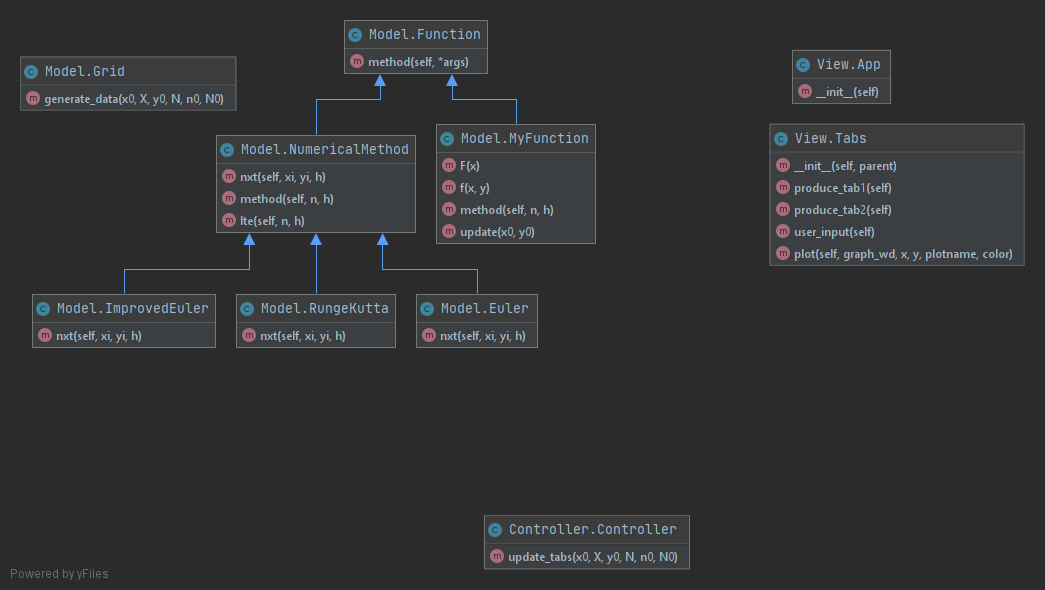
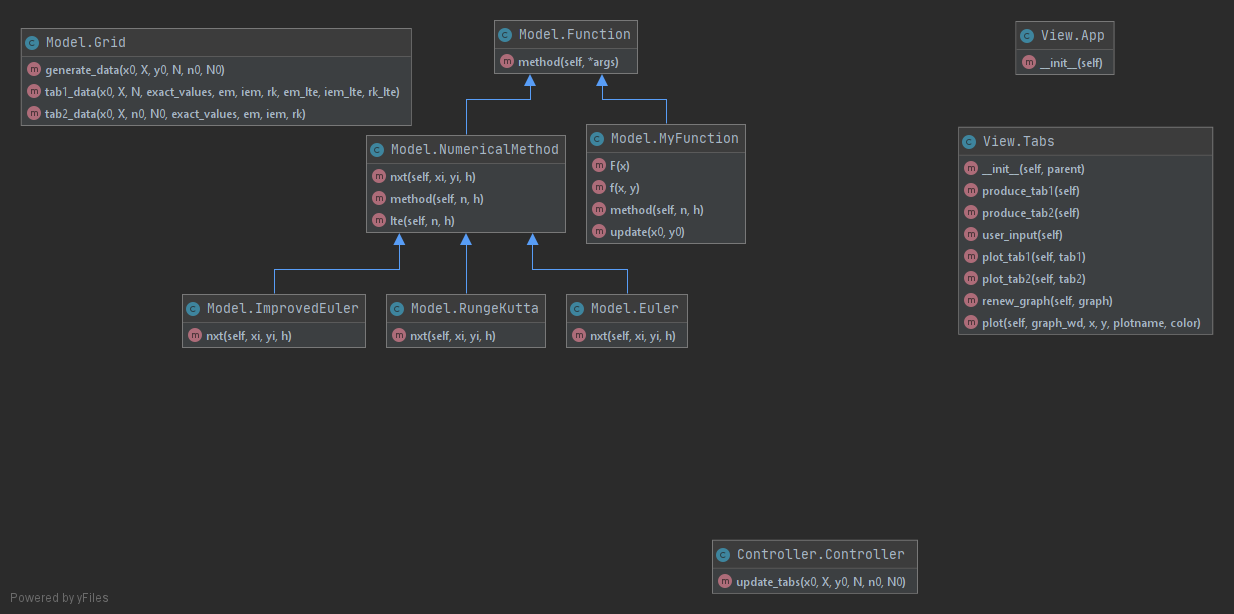
refactored

diff --git a/Model.py b/Model.py
@@ -6,6 +6,7 @@ class Function:
     def method(self, *args):
         pass
 
+
 class MyFunction(Function):
     @staticmethod
     def F(x):
@@ -74,28 +75,27 @@ class RungeKutta(NumericalMethod):
 
 
 class Grid:
-    # xs, Ys, EM, IEM, LTE, GTE
     @staticmethod
     def generate_data(x0, X, y0, N, n0, N0):
 
-        # ============ putting definitions ============
+        # ============ putting definitions and updating Model ============
         x0, X, y0 = float(x0), float(X), float(y0)
         MyFunction.update(x0, y0)
 
+        exact_values = MyFunction().method
+        em, iem, rk = Euler().method, ImprovedEuler().method, RungeKutta().method
+        em_lte, iem_lte, rk_lte = Euler().lte, ImprovedEuler().lte, RungeKutta().lte
+
+        # ============ gathering plot data for tabs ============
+        tab1 = Grid.tab1_data(x0, X, N, exact_values, em, iem, rk, em_lte, iem_lte, rk_lte)
+        tab2 = Grid.tab2_data(x0, X, n0, N0, exact_values, em, iem, rk)
+
+        return tab1, tab2
+
+    @staticmethod
+    def tab1_data(x0, X, N, exact_values, em, iem, rk, em_lte, iem_lte, rk_lte):
         n = N + 1
         h = (X - x0) / N
-
-        exact_values = MyFunction().method
-
-        em = Euler().method
-        em_lte = Euler().lte
-
-        iem = ImprovedEuler().method
-        iem_lte = ImprovedEuler().lte
-
-        rk = RungeKutta().method
-        rk_lte = RungeKutta().lte
-
         # ============ collecting data for tab1 ============
 
         # ------------ calculating x-s ------------
@@ -115,8 +115,10 @@ class Grid:
                              'em_approx': approx[0], 'iem_approx': approx[1], 'rk_approx': approx[2],
                              'em_lte': lte[0], 'iem_lte': lte[1], 'rk_lte': lte[2]
                              })
-        # print(tab1[['xs', 'iem_approx', 'iem_lte']])
+        return tab1
 
+    @staticmethod
+    def tab2_data(x0, X, n0, N0, exact_values, em, iem, rk):
         # ============ collecting data for tab2 ============
 
         # ------------ calculating n-s ------------
@@ -135,5 +137,5 @@ class Grid:
 
         # ++++++++++++ gathering ++++++++++++
         tab2 = pd.DataFrame({'ns': ns, 'em_gte': gte[0], 'iem_gte': gte[1], 'rk_gte': gte[2]})
-        # print(tab2)
-        return (tab1, tab2)
+
+        return tab2

diff --git a/View.py b/View.py
@@ -147,16 +147,16 @@ class Tabs(QWidget):
     def user_input(self):
 
         # sending user input to Controller
-        (tab1, tab2) = Controller.update_tabs(self.x0, self.X, self.y0, self.N, self.n0, self.N0)
+        tab1, tab2 = Controller.update_tabs(self.x0, self.X, self.y0, self.N, self.n0, self.N0)
+        self.plot_tab1(tab1)
+        self.plot_tab2(tab2)
 
+    def plot_tab1(self, tab1):
         #   plotting tab 1
         xs = tab1['xs'].tolist()
 
-        self.g1.clear()
-        self.g1.showGrid(x=True, y=True)
-
-        self.g2.clear()
-        self.g2.showGrid(x=True, y=True)
+        self.renew_graph(self.g1)
+        self.renew_graph(self.g2)
 
         if self.es_check1.isChecked():
             self.plot(self.g1, xs, tab1['exact'], 'Exact solution', 'y')
@@ -170,9 +170,9 @@ class Tabs(QWidget):
             self.plot(self.g1, xs, tab1['rk_approx'], 'Runge-Kutta Method', 'g')
             self.plot(self.g2, xs, tab1['rk_lte'], 'Runge-Kutta Method', 'g')
 
+    def plot_tab2(self, tab2):
         #   plotting tab 2
-        self.g.clear()
-        self.g.showGrid(x=True, y=True)
+        self.renew_graph(self.g)
 
         ns = tab2['ns']
 
@@ -182,6 +182,10 @@ class Tabs(QWidget):
             self.plot(self.g, ns, tab2['iem_gte'], 'Improved Euler Method', 'b')
         if self.rk_check2.isChecked():
             self.plot(self.g, ns, tab2['rk_gte'], 'Runge-Kutta Method', 'g')
+
+    def renew_graph(self, graph):
+        graph.clear()
+        graph.showGrid(x=True, y=True)
 
     def plot(self, graph_wd, x, y, plotname, color):
         pen = qtg.mkPen(color=color)

diff --git a/Controller.py b/Controller.py
@@ -5,7 +5,6 @@ class Controller:
 
     @staticmethod
     def update_tabs(x0, X, y0, N, n0, N0):
-
         # processing user input
 
         x0 = float(x0.text())
